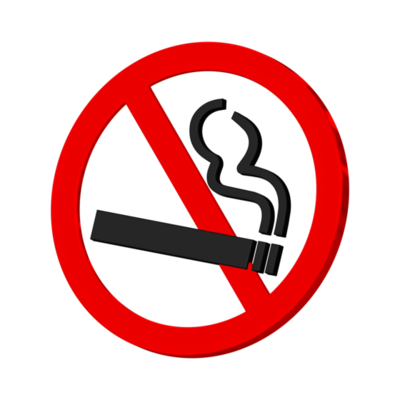
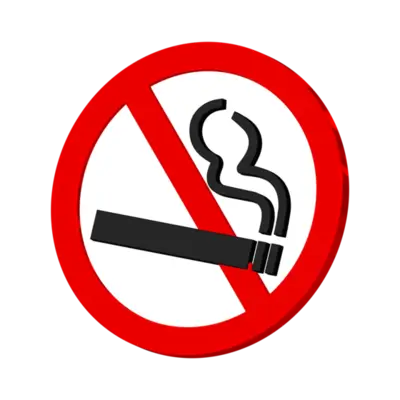
changing png to webP also changing some animation

diff --git a/index.html b/index.html
@@ -126,7 +126,7 @@
       <section class="opening" id="opening-section">
         <div class="container relative">
           <div class="wrapper flex-wrapper">
-            <img src="./images/bismillah.png" alt="" class="image-bismillah" />
+            <img src="./images/bismillah.webp" alt="" class="image-bismillah" />
             <p class="bismillah-text">Bismillaahirrahmaanirrahiim</p>
           </div>
           <div class="wrapper flex-wrapper box-style ayat-wrapper">
@@ -168,24 +168,24 @@
 
             <img
               class="quran-image animate-3d"
-              src="./images/quran.png"
+              src="./images/quran.webp"
               alt=""
             />
           </div>
           <img
-            src="./images/bucket-flower.png"
+            src="./images/bucket-flower.webp"
             alt=""
             class="bouqet left-bouqet"
           />
           <img
-            src="./images/bucket-flower.png"
+            src="./images/bucket-flower.webp"
             alt=""
             class="bouqet right-bouqet"
           />
           <div class="wrapper margin-wrapper">
             <div class="salam-wrapper">
               <div class="line-salam"></div>
-              <img src="./images/salam.png" alt="" class="salam-image" />
+              <img src="./images/salam.webp" alt="" class="salam-image" />
               <div class="line-salam"></div>
             </div>
             <p class="opening-text">
@@ -213,12 +213,12 @@
             <!-- decor -->
             <img
               animate-3d
-              src="./images/bride-decor.png"
+              src="./images/bride-decor.webp"
               alt=""
               class="bride-decor decor animate-3d"
             />
             <img
-              src="./images/bride-avatar.png"
+              src="./images/bride-avatar.webp"
               alt=""
               class="bride-avatar decor animate-3d"
             />
@@ -290,12 +290,12 @@
             <h2>Ibu Saidah</h2>
             <!-- decor -->
             <img
-              src="./images/groom-decor.png"
+              src="./images/groom-decor.webp"
               alt=""
               class="bride-decor groom-decor decor animate-3d"
             />
             <img
-              src="./images/groom-avatar.png"
+              src="./images/groom-avatar.webp"
               alt=""
               class="groom-avatar decor animate-3d"
             />
@@ -357,7 +357,7 @@
           <div class="wrapper box-style relative wrapper-date">
             <img
               class="date-image animate-3d"
-              src="./images/date-image.png"
+              src="./images/date-image.webp"
               alt=""
             />
             <h2 class="date-h2">Akad Nikah</h2>
@@ -400,7 +400,7 @@
           <div class="wrapper box-style relative wrapper-date">
             <img
               class="clock-image animate-3d"
-              src="./images/clock.png"
+              src="./images/clock.webp"
               alt=""
             />
             <h2 class="date-h2">Walimatul 'Urs</h2>
@@ -459,7 +459,7 @@
           <div class="wrapper box-style relative margin-wrapper venue-wrapper">
             <img
               class="venue-image animate-3d"
-              src="./images/venue.png"
+              src="./images/venue.webp"
               alt=""
             />
 
@@ -481,19 +481,19 @@
             </div>
             <div class="images-grid-wrapper">
               <img
-                src="./images/venue-1.png"
+                src="./images/venue-1.webp"
                 alt=""
-                class="venue-image-grid grid-1 animate-3d"
+                class="venue-image-grid grid-1 animate-venue"
               />
               <img
-                src="./images/venue-2.png"
+                src="./images/venue-2.webp"
                 alt=""
-                class="venue-image-grid grid-2 animate-3d"
+                class="venue-image-grid grid-2 animate-venue"
               />
               <img
-                src="./images/venue-3.png"
+                src="./images/venue-3.webp"
                 alt=""
-                class="venue-image-grid grid-3 animate-3d"
+                class="venue-image-grid grid-3 animate-venue"
               />
             </div>
           </div>
@@ -523,7 +523,7 @@
           <div class="big-block"></div>
           <div class="wrapper box-style relative wrapper-adab-text">
             <img
-              src="./images/adab-walimah/sholat.png"
+              src="./images/adab-walimah/sholat.webp"
               alt=""
               class="decor-adab-text animate-3d"
             />
@@ -531,7 +531,7 @@
           </div>
           <div class="wrapper box-style relative wrapper-adab-text">
             <img
-              src="./images/adab-walimah/aurat.png"
+              src="./images/adab-walimah/aurat.webp"
               alt=""
               class="decor-adab-text animate-3d"
             />
@@ -539,7 +539,7 @@
           </div>
           <div class="wrapper box-style relative wrapper-adab-text">
             <img
-              src="./images/adab-walimah/makan.png"
+              src="./images/adab-walimah/makan.webp"
               alt=""
               class="decor-adab-text animate-3d"
             />
@@ -547,7 +547,7 @@
           </div>
           <div class="wrapper box-style relative wrapper-adab-text">
             <img
-              src="./images/adab-walimah/camera.png"
+              src="./images/adab-walimah/camera.webp"
               alt=""
               class="decor-adab-text animate-3d"
             />
@@ -555,7 +555,7 @@
           </div>
           <div class="wrapper box-style relative wrapper-adab-text">
             <img
-              src="./images/adab-walimah/ikhtilat.png"
+              src="./images/adab-walimah/ikhtilat.webp"
               alt=""
               class="decor-adab-text animate-3d"
             />
@@ -565,7 +565,7 @@
           </div>
           <div class="wrapper box-style relative wrapper-adab-text">
             <img
-              src="./images/adab-walimah/doa.png"
+              src="./images/adab-walimah/doa.webp"
               alt=""
               class="decor-adab-text animate-3d"
             />
@@ -625,7 +625,41 @@
         </div>
       </section>
 
-      <section class="closing">
+      <section class="closing relative">
+        <svg
+          class="decor-splash splash-1"
+          width="157"
+          height="155"
+          viewBox="0 0 157 155"
+          fill="none"
+          xmlns="http://www.w3.org/2000/svg"
+        >
+          <path
+            d="M106.061 117.019C130.472 119.555 150.662 106.571 153.518 91.7874C156.465 76.5278 146.021 58.1274 118.975 49.4256C118.558 24.8493 109.568 6.54795 93.7641 3.49901C77.9601 0.450064 62.445 11.3614 51.6031 36.5553C25.2661 33.9108 5.1464 48.4371 3.20779 66.1028C1.26918 83.7685 12.8854 97.0542 38.4797 103.839C36.4479 130.5 45.9986 147.805 65.1764 151.505C84.3541 155.205 101.941 137.613 106.061 117.019Z"
+            stroke="#2CB2C6"
+            stroke-width="5.03731"
+          />
+          <path
+            d="M105.642 82.183C108.482 67.4813 100.88 53.2845 86.1698 50.4465C71.4593 47.6085 55.8669 53.8043 52.3705 71.9058C49.5308 86.6075 56.8433 98.7286 73.8646 103.664C89.0391 108.064 102.42 98.8647 105.642 82.183Z"
+            stroke="#2CB2C6"
+            stroke-width="5.03731"
+          />
+        </svg>
+
+        <svg
+          class="decor-splash splash-2"
+          width="149"
+          height="146"
+          viewBox="0 0 149 146"
+          fill="none"
+          xmlns="http://www.w3.org/2000/svg"
+        >
+          <path
+            d="M87.8087 98.979C87.8087 98.979 99.7034 136.352 83.8099 142.411C66.1608 149.14 70.0638 95.9751 70.0638 95.9751C70.0638 95.9751 31.6168 138.048 23.327 118.63C15.674 100.703 53.8184 78.2017 53.8184 78.2017C53.8184 78.2017 -1.78444 73.0659 3.33271 51.2913C8.58796 28.929 61.6912 57.925 61.6912 57.925C61.6912 57.925 42.8177 13.2922 61.6912 4.10416C82.6759 -6.11174 87.8087 57.925 87.8087 57.925C87.8087 57.925 132.208 15.8006 144.293 36.1463C156.185 56.1668 102.055 78.2017 102.055 78.2017C102.055 78.2017 143.274 90.9581 138.045 108.617C132.365 127.798 87.8087 98.979 87.8087 98.979Z"
+            stroke="#E5A2C0"
+            stroke-width="5.03731"
+          />
+        </svg>
         <div class="container">
           <div class="medium-block"></div>
           <div class="wrapper-closing relative">
@@ -655,7 +689,7 @@
             <h3>Fahmi & Fidia</h3>
 
             <svg
-              class="decor-closing decor-closing-1"
+              class="decor-closing decor-closing-1 animate-3d"
               width="46"
               height="31"
               viewBox="0 0 46 31"
@@ -679,7 +713,7 @@
             <!-- ===== -->
 
             <svg
-              class="decor-closing decor-closing-2"
+              class="decor-closing decor-closing-2 animate-3d"
               width="54"
               height="47"
               viewBox="0 0 54 47"

diff --git a/script.js b/script.js
@@ -97,6 +97,12 @@ document.addEventListener("DOMContentLoaded", (event) => {
       y: 100,
       duration: 1,
       ease: "power4.inOut",
+    }).to(element, {
+      y: 10,
+      yoyo: true,
+      repeat: -1,
+      duration: 1.5,
+      ease: "none",
     });
     createScrollTrigger(element, tl);
   });
@@ -116,6 +122,28 @@ document.addEventListener("DOMContentLoaded", (event) => {
     );
     createScrollTrigger(element, tl);
   });
+
+  const venue_img = document.querySelectorAll(".animate-venue");
+  // const venue_wrapper = document.querySelector(".image-grid-wrapper");
+
+  let venue_tl = gsap.timeline({
+    paused: true,
+    scrollTrigger: {
+      trigger: ".images-grid-wrapper",
+      // markers: true,
+      start: "top 60%",
+    },
+  });
+
+  venue_tl.from(venue_img, {
+    opacity: 0,
+    y: 50,
+    duration: 1,
+    ease: "power2.inOut",
+    stagger: { each: 0.2 },
+  });
+
+  // createScrollTrigger(venue_wrapper, venue_tl);
 
   toggleBtn.addEventListener("click", () => {
     if (music.paused) {

diff --git a/styles.css b/styles.css
@@ -518,6 +518,12 @@ section {
 }
 
 .closing {
+  display: flex;
+  flex-direction: column;
+  align-items: center;
+  justify-content: center;
+  overflow: hidden;
+  min-height: 100dvh;
   background-color: var(--pink-3);
 }
 
